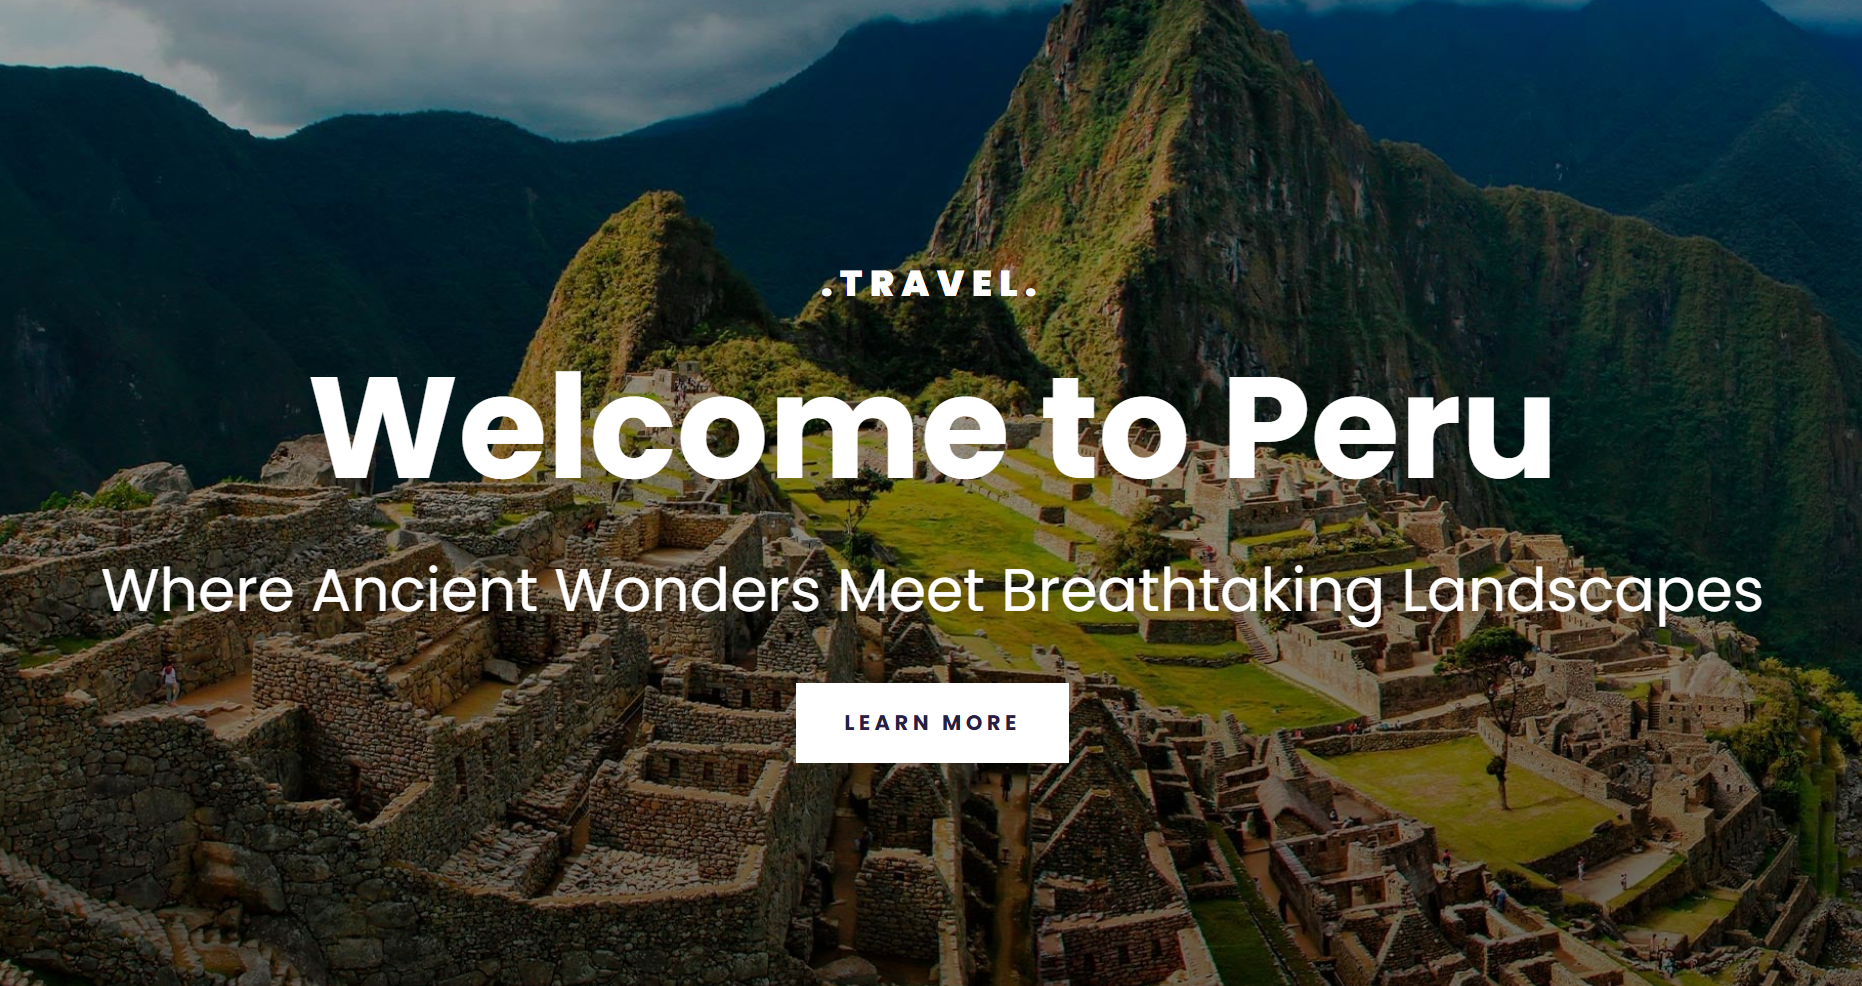
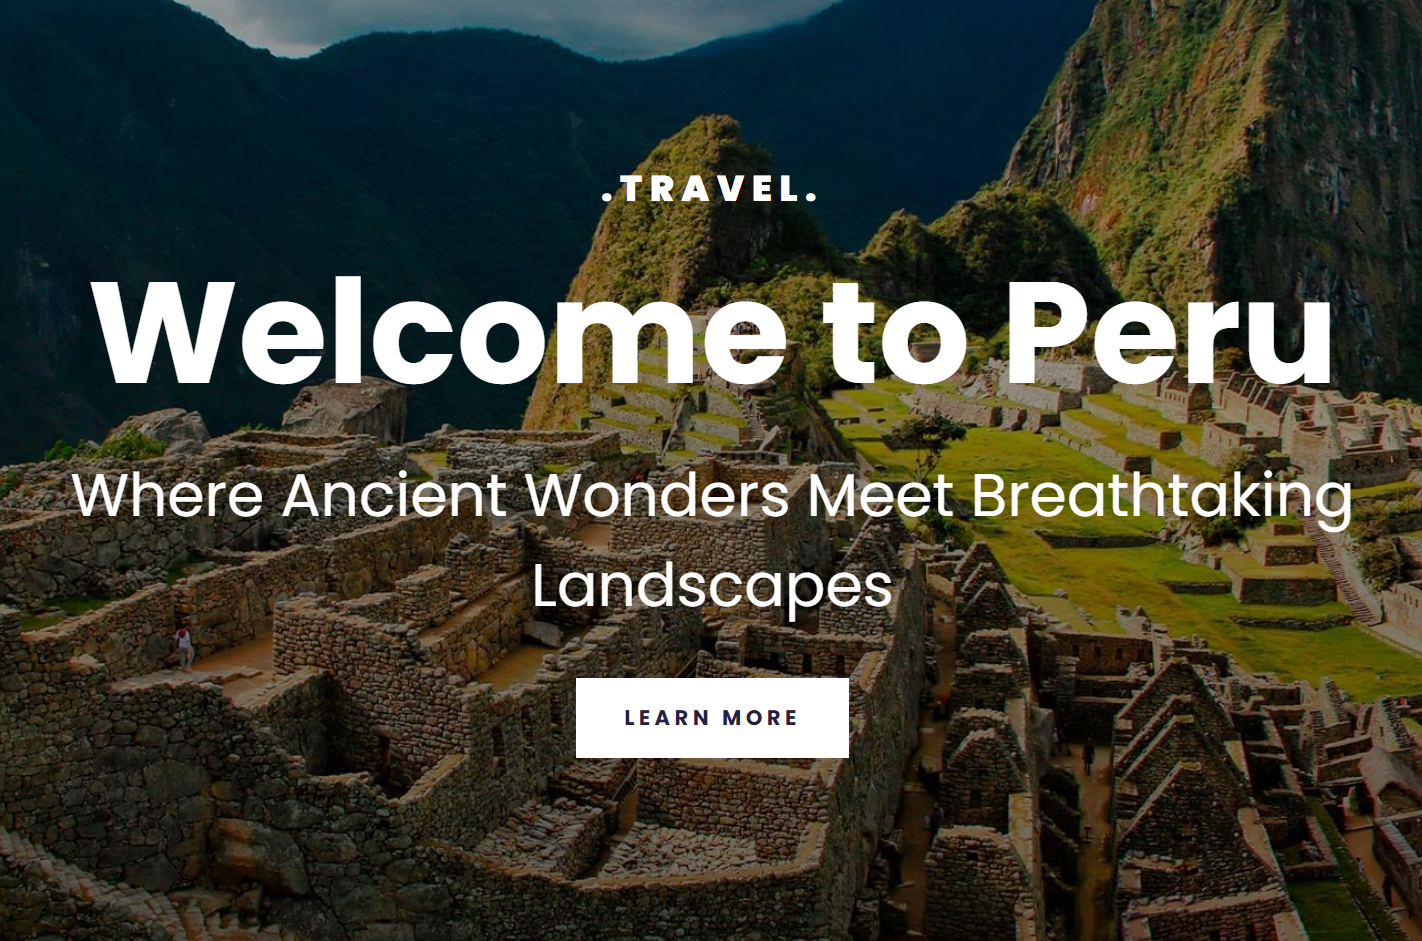
Added travel project to homepage and updated hero font colour

diff --git a/index.html b/index.html
@@ -117,13 +117,13 @@
             <p class="mb-5">
              This is one of my favourite projects so far, a responsive travel webpage about Peru. During 
             </p>
-            <a href="https://ai-gym-workout-generator.netlify.app/" target="_blank" class="btn btn-branding-outline"
-              >Launch Workout Generator</a
+            <a href="https://visit-peru.netlify.app/" target="_blank" class="btn btn-branding-outline"
+              >Launch Travel Page</a
             >
           </div>
         </div>
         <div class="col d-none d-lg-block">
-          <img src="images/ai-generator.png" class="img-fluid" alt="AI Gym Workout Generator" />
+          <img src="images/travel-project.png" class="img-fluid" alt="Peru Travel Webpage" />
         </div>
       </div>
       </div> 

diff --git a/styles/style.css b/styles/style.css
@@ -10,6 +10,12 @@ body {
   color: black;
 }
 
+.hero h1,
+.hero h2,
+.hero p {
+  color: #163853;
+}
+
 h1 {
   font-weight: 200;
   font-size: 96px;
